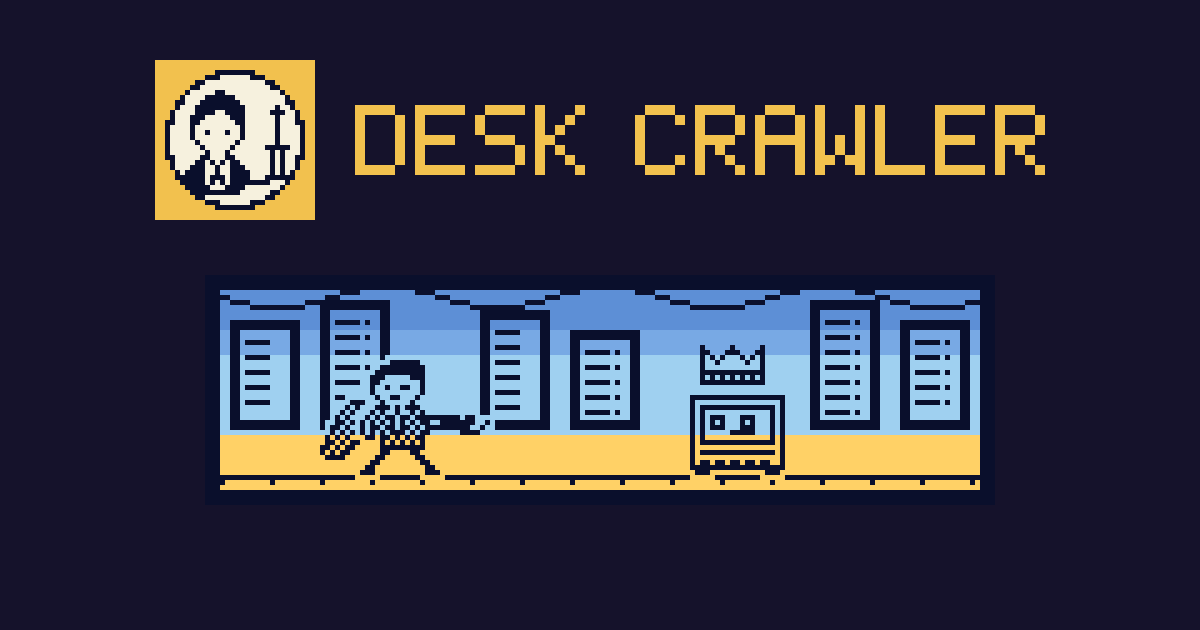
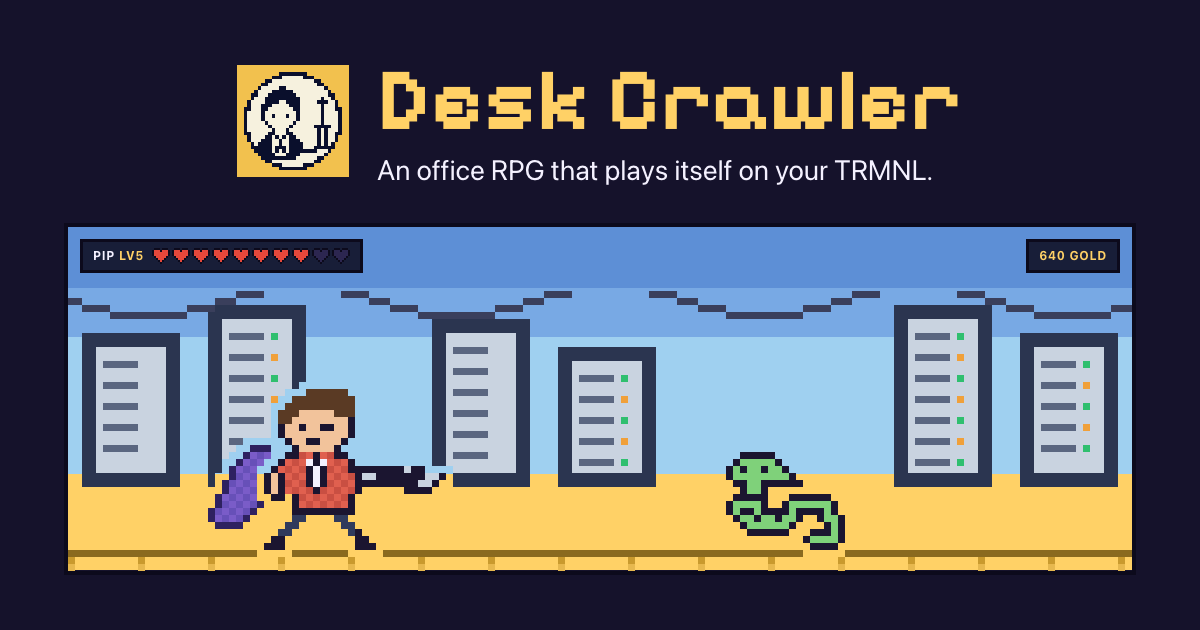
Fall back to UTC for the office sky when TRMNL sends no offset, as the recap does, so the sky and the recap always turn together; the companion keeps daylight until its clock hydrates (D106)

diff --git a/apps/web/src/routeTree.gen.ts b/apps/web/src/routeTree.gen.ts
@@ -22,6 +22,7 @@ import { Route as AppDeskCrawlerRouteImport } from './routes/app/desk-crawler'
 import { Route as DeskCrawlerUnsubscribeRouteImport } from './routes/desk-crawler/unsubscribe'
 import { Route as DeskCrawlerWaitingListRouteImport } from './routes/desk-crawler/waiting-list'
 import { Route as DevDeskCrawlerRouteImport } from './routes/dev/desk-crawler'
+import { Route as DevOgRouteImport } from './routes/dev/og'
 import { Route as GamesDeskCrawlerRouteImport } from './routes/games/desk-crawler'
 import { Route as HelpDeskCrawlerRouteImport } from './routes/help/desk-crawler'
 import { Route as AppDeskCrawlerIndexRouteImport } from './routes/app/desk-crawler/index'
@@ -96,6 +97,11 @@ const DevDeskCrawlerRoute = DevDeskCrawlerRouteImport.update({
   path: '/dev/desk-crawler',
   getParentRoute: () => rootRouteImport,
 } as any)
+const DevOgRoute = DevOgRouteImport.update({
+  id: '/dev/og',
+  path: '/dev/og',
+  getParentRoute: () => rootRouteImport,
+} as any)
 const GamesDeskCrawlerRoute = GamesDeskCrawlerRouteImport.update({
   id: '/games/desk-crawler',
   path: '/games/desk-crawler',
@@ -153,6 +159,7 @@ export interface FileRoutesByFullPath {
   '/desk-crawler/unsubscribe': typeof DeskCrawlerUnsubscribeRoute
   '/desk-crawler/waiting-list': typeof DeskCrawlerWaitingListRoute
   '/dev/desk-crawler': typeof DevDeskCrawlerRoute
+  '/dev/og': typeof DevOgRoute
   '/games/desk-crawler': typeof GamesDeskCrawlerRoute
   '/help/desk-crawler': typeof HelpDeskCrawlerRoute
   '/app/': typeof AppIndexRoute
@@ -174,6 +181,7 @@ export interface FileRoutesByTo {
   '/desk-crawler/unsubscribe': typeof DeskCrawlerUnsubscribeRoute
   '/desk-crawler/waiting-list': typeof DeskCrawlerWaitingListRoute
   '/dev/desk-crawler': typeof DevDeskCrawlerRoute
+  '/dev/og': typeof DevOgRoute
   '/games/desk-crawler': typeof GamesDeskCrawlerRoute
   '/help/desk-crawler': typeof HelpDeskCrawlerRoute
   '/app': typeof AppIndexRoute
@@ -198,6 +206,7 @@ export interface FileRoutesById {
   '/desk-crawler/unsubscribe': typeof DeskCrawlerUnsubscribeRoute
   '/desk-crawler/waiting-list': typeof DeskCrawlerWaitingListRoute
   '/dev/desk-crawler': typeof DevDeskCrawlerRoute
+  '/dev/og': typeof DevOgRoute
   '/games/desk-crawler': typeof GamesDeskCrawlerRoute
   '/help/desk-crawler': typeof HelpDeskCrawlerRoute
   '/app/': typeof AppIndexRoute
@@ -223,6 +232,7 @@ export interface FileRouteTypes {
     | '/desk-crawler/unsubscribe'
     | '/desk-crawler/waiting-list'
     | '/dev/desk-crawler'
+    | '/dev/og'
     | '/games/desk-crawler'
     | '/help/desk-crawler'
     | '/app/'
@@ -244,6 +254,7 @@ export interface FileRouteTypes {
     | '/desk-crawler/unsubscribe'
     | '/desk-crawler/waiting-list'
     | '/dev/desk-crawler'
+    | '/dev/og'
     | '/games/desk-crawler'
     | '/help/desk-crawler'
     | '/app'
@@ -267,6 +278,7 @@ export interface FileRouteTypes {
     | '/desk-crawler/unsubscribe'
     | '/desk-crawler/waiting-list'
     | '/dev/desk-crawler'
+    | '/dev/og'
     | '/games/desk-crawler'
     | '/help/desk-crawler'
     | '/app/'
@@ -290,6 +302,7 @@ export interface RootRouteChildren {
   DeskCrawlerUnsubscribeRoute: typeof DeskCrawlerUnsubscribeRoute
   DeskCrawlerWaitingListRoute: typeof DeskCrawlerWaitingListRoute
   DevDeskCrawlerRoute: typeof DevDeskCrawlerRoute
+  DevOgRoute: typeof DevOgRoute
   GamesDeskCrawlerRoute: typeof GamesDeskCrawlerRoute
   HelpDeskCrawlerRoute: typeof HelpDeskCrawlerRoute
   ConnectTrmnlDeskCrawlerInstallRoute: typeof ConnectTrmnlDeskCrawlerInstallRoute
@@ -387,6 +400,13 @@ declare module '@tanstack/react-router' {
       path: '/dev/desk-crawler'
       fullPath: '/dev/desk-crawler'
       preLoaderRoute: typeof DevDeskCrawlerRouteImport
+      parentRoute: typeof rootRouteImport
+    }
+    '/dev/og': {
+      id: '/dev/og'
+      path: '/dev/og'
+      fullPath: '/dev/og'
+      preLoaderRoute: typeof DevOgRouteImport
       parentRoute: typeof rootRouteImport
     }
     '/games/desk-crawler': {
@@ -490,6 +510,7 @@ const rootRouteChildren: RootRouteChildren = {
   DeskCrawlerUnsubscribeRoute: DeskCrawlerUnsubscribeRoute,
   DeskCrawlerWaitingListRoute: DeskCrawlerWaitingListRoute,
   DevDeskCrawlerRoute: DevDeskCrawlerRoute,
+  DevOgRoute: DevOgRoute,
   GamesDeskCrawlerRoute: GamesDeskCrawlerRoute,
   HelpDeskCrawlerRoute: HelpDeskCrawlerRoute,
   ConnectTrmnlDeskCrawlerInstallRoute: ConnectTrmnlDeskCrawlerInstallRoute,

diff --git a/tools/art/colour.ts b/tools/art/colour.ts
@@ -11,7 +11,6 @@ export const BRAND = {
   night: [0x0a, 0x0f, 0x2c],
   navy: [0x22, 0x1d, 0x44],
   ground: [0x15, 0x12, 0x2b],
-  serverBands: [[0x5d, 0x8f, 0xd6], [0x78, 0xa9, 0xe4], [0x9f, 0xd0, 0xf0], [0xff, 0xd1, 0x66]],
   white: [0xff, 0xff, 0xff],
 } as const
 
@@ -102,17 +101,6 @@ export function colourMark(canvas: Canvas, tile: Rgb = BRAND.gold): Image {
   return image
 }
 
-/** A 1-bit scene with its paper replaced by colour bands (ceiling, upper wall, wall, floor at 18/14/40/28%), as the companion's game screen shows it. */
-export function bandedScene(canvas: Canvas, bands: readonly Rgb[]): Image {
-  const image = new Image(canvas.width, canvas.height)
-  const stops = [0.18, 0.32, 0.72, 1]
-  for (let y = 0; y < canvas.height; y += 1) {
-    const band = bands[stops.findIndex((stop) => y < stop * canvas.height)] ?? bands[bands.length - 1]!
-    for (let x = 0; x < canvas.width; x += 1) image.set(x, y, canvas.ink[y * canvas.width + x] ? BRAND.night : band)
-  }
-  return image
-}
-
 /** A 1-bit canvas as night ink on white, for the device scene. */
 export function inkImage(canvas: Canvas): Image {
   const image = new Image(canvas.width, canvas.height)
@@ -136,35 +124,4 @@ export function markSvg(image: Image): string {
   }
   const paths = [...byColour].map(([colour, runs]) => `<path fill="#${colour}" d="${runs.join('')}"/>`).join('')
   return `<svg xmlns="http://www.w3.org/2000/svg" viewBox="0 0 ${image.width} ${image.height}" shape-rendering="crispEdges">${paths}</svg>\n`
-}
-
-/** A 5x7 pixel alphabet for the wordmarks on the social cards (only the letters the titles use). */
-const LETTERS: Record<string, readonly string[]> = {
-  A: ['.###.', '#...#', '#...#', '#####', '#...#', '#...#', '#...#'],
-  C: ['.###.', '#...#', '#....', '#....', '#....', '#...#', '.###.'],
-  D: ['####.', '#...#', '#...#', '#...#', '#...#', '#...#', '####.'],
-  E: ['#####', '#....', '#....', '####.', '#....', '#....', '#####'],
-  G: ['.###.', '#...#', '#....', '#.###', '#...#', '#...#', '.###.'],
-  K: ['#...#', '#..#.', '#.#..', '##...', '#.#..', '#..#.', '#...#'],
-  L: ['#....', '#....', '#....', '#....', '#....', '#....', '#####'],
-  M: ['#...#', '##.##', '#.#.#', '#.#.#', '#...#', '#...#', '#...#'],
-  N: ['#...#', '##..#', '#.#.#', '#..##', '#...#', '#...#', '#...#'],
-  R: ['####.', '#...#', '#...#', '####.', '#.#..', '#..#.', '#...#'],
-  S: ['.####', '#....', '#....', '.###.', '....#', '....#', '####.'],
-  T: ['#####', '..#..', '..#..', '..#..', '..#..', '..#..', '..#..'],
-  W: ['#...#', '#...#', '#...#', '#.#.#', '#.#.#', '##.##', '#...#'],
-  ' ': ['...', '...', '...', '...', '...', '...', '...'],
-}
-
-/** Width in pixels of `text` set in the pixel alphabet at `scale`, one pixel of tracking per letter. */
-export const pixelTextWidth = (text: string, scale: number) => [...text.toUpperCase()].reduce((sum, ch) => sum + ((LETTERS[ch]?.[0]!.length ?? 3) + 1) * scale, -scale)
-
-/** Draw `text` with its top-left at (left, top). */
-export function pixelText(image: Image, text: string, left: number, top: number, scale: number, colour: Rgb): void {
-  let x = left
-  for (const ch of text.toUpperCase()) {
-    const rows = LETTERS[ch] ?? LETTERS[' ']!
-    rows.forEach((row, y) => [...row].forEach((cell, dx) => { if (cell === '#') image.rect(x + dx * scale, top + y * scale, scale, scale, colour) }))
-    x += (rows[0]!.length + 1) * scale
-  }
 }

diff --git a/tools/art/web.ts b/tools/art/web.ts
@@ -1,12 +1,11 @@
-/** Render the platform's and Desk Crawler's favicons, app icons and social cards into public/. pnpm tsx tools/art/web.ts */
+/** Render the platform's and Desk Crawler's favicons and app icons into public/. pnpm tsx tools/art/web.ts (social cards: tools/art/og.mjs) */
 import { mkdirSync, writeFileSync } from 'node:fs'
 import type { Canvas } from '@trmnl-games/desk-crawler/art/canvas'
-import { composeScene, STAGE_WIDTH } from '@trmnl-games/desk-crawler/art/scene'
-import { BRAND, Image, bandedScene, colourMark, markSvg, pixelText, pixelTextWidth } from './colour'
+import { BRAND, Image, colourMark, markSvg } from './colour'
 import { faviconCanvas, iconCanvas } from './iconArt'
 import { platformFaviconCanvas, platformIconCanvas } from './platformArt'
 
-function writeIconSet(out: string, title: string, iconArt: Canvas, faviconArt: Canvas): void {
+function writeIconSet(out: string, iconArt: Canvas, faviconArt: Canvas): void {
   mkdirSync(out, { recursive: true })
   const icon = colourMark(iconArt)
   const favicon = colourMark(faviconArt)
@@ -49,19 +48,8 @@ function writeIconSet(out: string, title: string, iconArt: Canvas, faviconArt: C
   png('apple-touch-icon.png', touch, 5)
   png('icon-192.png', icon, 6)
   png('icon-512.png', icon, 16)
-
-  // Social card, 1200x630 = 240x126 x 5: the mark and gold pixel wordmark over the game screen, the fight scene in Server Room colours.
-  const card = new Image(240, 126, BRAND.ground)
-  const wordWidth = pixelTextWidth(title, 2)
-  const rowLeft = Math.round((240 - (32 + 8 + wordWidth)) / 2)
-  card.blit(icon, rowLeft, 12)
-  pixelText(card, title, rowLeft + 40, 21, 2, BRAND.gold)
-  const scene = bandedScene(composeScene('server_room', 'fight', { kind: 'monster', id: 'legacy_mainframe', elite: true }), BRAND.serverBands)
-  card.rect((240 - STAGE_WIDTH) / 2 - 3, 55, STAGE_WIDTH + 6, scene.height + 6, BRAND.night)
-  card.blit(scene, (240 - STAGE_WIDTH) / 2, 58)
-  png('og.png', card, 5)
 }
 
 // The platform mark at the site root; Desk Crawler's Warrior under its game path.
-writeIconSet('apps/web/public', 'TRMNL Games', platformIconCanvas(), platformFaviconCanvas())
-writeIconSet('apps/web/public/games/desk-crawler', 'Desk Crawler', iconCanvas(), faviconCanvas())
+writeIconSet('apps/web/public', platformIconCanvas(), platformFaviconCanvas())
+writeIconSet('apps/web/public/games/desk-crawler', iconCanvas(), faviconCanvas())

diff --git a/tests/sim/art.test.ts b/tests/sim/art.test.ts
@@ -4,6 +4,7 @@ import { parseScenePath, renderScenePng } from '@trmnl-games/desk-crawler/art/ro
 import { composeScene, FULL_SCALE, LARGE_SCALE, MEDIUM_SCALE, SCENE_VERSION, SMALL_SCALE, STAGE_HEIGHT, STAGE_WIDTH } from '@trmnl-games/desk-crawler/art/scene'
 import { sceneFor, scenePath } from '@trmnl-games/desk-crawler/art/sceneKey'
 import { sceneTimeAt, sceneUrlAt, sceneUrlsAt } from '@trmnl-games/desk-crawler/art/sceneTime'
+import { recapPeriod } from '@trmnl-games/desk-crawler/payload'
 import { monsterArt } from '@trmnl-games/desk-crawler/art/monsters'
 import { BWRY_PALETTE, bwryInk, BwryInk } from '@trmnl-games/desk-crawler/art/sceneColour'
 import { contentV1 } from '@trmnl-games/desk-crawler/content/v1'
@@ -133,7 +134,20 @@ describe('local scene time', () => {
     expect(sceneTimeAt(at(10), -4.5 * 3600)).toBe('night')
     expect(sceneTimeAt(at(23), 2 * 3600)).toBe('night')
     expect(sceneTimeAt(at(1), -4 * 3600)).toBe('night')
-    for (const offset of [null, NaN, Infinity, 14 * 3600 + 1, 0.5]) expect(sceneTimeAt(at(23), offset)).toBe('day')
+  })
+
+  it('reads UTC without a valid offset, turning with the recap (D106)', () => {
+    const at = (hour: number, minute = 0) => Date.UTC(2026, 9, 5, hour, minute)
+    for (const offset of [null, NaN, Infinity, 14 * 3600 + 1, 0.5]) {
+      expect(sceneTimeAt(at(6, 59), offset)).toBe('night')
+      expect(sceneTimeAt(at(7), offset)).toBe('day')
+      expect(sceneTimeAt(at(19), offset)).toBe('night')
+    }
+    for (const hour of [0, 6, 7, 12, 18, 19, 23]) {
+      const now = at(hour, 30)
+      expect(sceneTimeAt(now, null)).toBe(recapPeriod(now, null).label === 'Night recap' ? 'day' : 'night')
+    }
+    expect(sceneTimeAt(NaN, null)).toBe('day')
   })
 
   it('selects all scales together without mutating the payload or legacy URLs', () => {

diff --git a/apps/web/src/routes/dev/og.tsx b/apps/web/src/routes/dev/og.tsx
@@ -1,0 +1,38 @@
+import { createFileRoute, notFound } from '@tanstack/react-router'
+import { SampleScreen } from '../../lib/sampleScreen'
+
+const CARDS = {
+  platform: { mark: '/favicon.svg', title: 'TRMNL Games', tagline: 'Games for your TRMNL e-ink display. Starting with Desk Crawler.' },
+  'desk-crawler': { mark: '/games/desk-crawler/icon-192.png', title: 'Desk Crawler', tagline: 'An office RPG that plays itself on your TRMNL.' },
+} as const
+type Card = keyof typeof CARDS
+
+/**
+ * Dev-only social cards (1200x630). `node tools/art/og.mjs` screenshots `#og-card` into
+ * public/og.png and public/games/desk-crawler/og.png, so the cards use the site's own fonts,
+ * painted scene and HUD rather than a separate drawing.
+ */
+export const Route = createFileRoute('/dev/og')({
+  validateSearch: (search: Record<string, unknown>): { card: Card } => ({ card: search.card === 'desk-crawler' ? 'desk-crawler' : 'platform' }),
+  beforeLoad: () => {
+    if (!import.meta.env.DEV) throw notFound()
+  },
+  component: OgCard,
+})
+
+function OgCard() {
+  const card = CARDS[Route.useSearch().card]
+  return (
+    <div id="og-card" className="flex h-[630px] w-[1200px] flex-col items-center justify-center gap-9 bg-ground">
+      <div className="flex items-center gap-7">
+        <img src={card.mark} alt="" width={112} height={112} className="size-28 [image-rendering:pixelated]" />
+        <div className="flex flex-col gap-2">
+          <p className="font-display text-[5.5rem] leading-none font-bold text-gold-ink">{card.title}</p>
+          <p className="text-[1.75rem] leading-tight text-ink">{card.tagline}</p>
+        </div>
+      </div>
+      {/* 152px stage at exactly 7x plus the 4px frame, so every art pixel stays square. */}
+      <SampleScreen className="w-[1072px]" />
+    </div>
+  )
+}

diff --git a/apps/web/src/lib/seo.ts b/apps/web/src/lib/seo.ts
@@ -2,13 +2,15 @@ import { PLATFORM_ORIGIN, PLATFORM_NAME } from '@trmnl-games/platform'
 
 export const SITE_ORIGIN = PLATFORM_ORIGIN
 export const SITE_NAME = PLATFORM_NAME
+/** Desk Crawler's own social card, for its public pages. */
+export const DESK_CRAWLER_OG = { path: '/games/desk-crawler/og.png', alt: 'Desk Crawler: Pip the office warrior squares up to a Cable Serpent in the Server Room' }
 export const SITE_DESCRIPTION = 'Games for your TRMNL e-ink display. Start with Desk Crawler, an office RPG that plays itself on your desk.'
 
 /**
  * Per-route head tags. Child meta with the same name/property replaces the
  * root defaults; private and handoff pages pass `index: false`.
  */
-export function seo({ title, description = SITE_DESCRIPTION, path, index = true }: { title?: string; description?: string; path?: string; index?: boolean }) {
+export function seo({ title, description = SITE_DESCRIPTION, path, index = true, image }: { title?: string; description?: string; path?: string; index?: boolean; image?: { path: string; alt: string } }) {
   const fullTitle = title ? `${title} · ${SITE_NAME}` : `${SITE_NAME}: games for your e-ink display`
   return {
     meta: [
@@ -17,6 +19,7 @@ export function seo({ title, description = SITE_DESCRIPTION, path, index = true 
       { property: 'og:title', content: fullTitle },
       { property: 'og:description', content: description },
       ...(path ? [{ property: 'og:url', content: `${SITE_ORIGIN}${path}` }] : []),
+      ...(image ? [{ property: 'og:image', content: `${SITE_ORIGIN}${image.path}` }, { property: 'og:image:alt', content: image.alt }] : []),
       ...(index ? [] : [{ name: 'robots', content: 'noindex, nofollow' }]),
     ],
     links: path && index ? [{ rel: 'canonical', href: `${SITE_ORIGIN}${path}` }] : [],

diff --git a/packages/desk-crawler/src/art/sceneTime.ts b/packages/desk-crawler/src/art/sceneTime.ts
@@ -4,10 +4,14 @@ import { DAY_START_HOUR, NIGHT_START_HOUR } from '../lib/activityRecap'
 export const SCENE_VERSION = 4
 export type SceneTime = 'day' | 'night'
 
-/** Cosmetic clock only, on the recap's day/night hours (D84). Offset is seconds east of UTC; unknown local time uses daylight. */
+/**
+ * Cosmetic clock only, on the recap's day/night hours (D84). Offset is seconds east of UTC; a missing or invalid offset
+ * reads UTC, as `recapPeriod` does, so the sky and the recap still turn together (D106).
+ */
 export function sceneTimeAt(now: number, utcOffset: number | null): SceneTime {
-  if (utcOffset === null || !Number.isFinite(now) || !Number.isInteger(utcOffset) || Math.abs(utcOffset) > 14 * 3600) return 'day'
-  const hour = new Date(now + utcOffset * 1000).getUTCHours()
+  if (!Number.isFinite(now)) return 'day'
+  const offset = utcOffset !== null && Number.isInteger(utcOffset) && Math.abs(utcOffset) <= 14 * 3600 ? utcOffset : 0
+  const hour = new Date(now + offset * 1000).getUTCHours()
   return hour >= DAY_START_HOUR && hour < NIGHT_START_HOUR ? 'day' : 'night'
 }
 

diff --git a/apps/web/src/routes/games/desk-crawler.tsx b/apps/web/src/routes/games/desk-crawler.tsx
@@ -1,11 +1,11 @@
 import { Link, createFileRoute } from '@tanstack/react-router'
 import { RELEASE_STATUS, SiteLinks } from '../../lib/prose'
 import { BUTTON_SECONDARY, LINK_BUTTON } from '../../lib/ui'
-import { seo } from '../../lib/seo'
+import { DESK_CRAWLER_OG, seo } from '../../lib/seo'
 import { SampleScreen } from '../../lib/deskCrawlerPitch'
 import { WaitlistForm } from '../../lib/waitlist'
 
-export const Route = createFileRoute('/games/desk-crawler')({ head: () => seo({ title: 'Desk Crawler', path: '/games/desk-crawler', description: 'An office RPG that plays itself on your TRMNL e-ink display.' }), component: Landing })
+export const Route = createFileRoute('/games/desk-crawler')({ head: () => seo({ title: 'Desk Crawler', path: '/games/desk-crawler', description: 'An office RPG that plays itself on your TRMNL e-ink display.', image: DESK_CRAWLER_OG }), component: Landing })
 
 /** Public landing. The screen below is a static, labelled sample; it never creates a hero. */
 function Landing() {

diff --git a/apps/web/src/routes/desk-crawler/waiting-list.tsx b/apps/web/src/routes/desk-crawler/waiting-list.tsx
@@ -1,11 +1,11 @@
 import { Link, createFileRoute } from '@tanstack/react-router'
 import { SiteLinks } from '../../lib/prose'
-import { seo } from '../../lib/seo'
+import { DESK_CRAWLER_OG, seo } from '../../lib/seo'
 import { SampleScreen } from '../../lib/deskCrawlerPitch'
 import { WaitlistForm } from '../../lib/waitlist'
 
 export const Route = createFileRoute('/desk-crawler/waiting-list')({
-  head: () => seo({ title: 'Desk Crawler waiting list', path: '/desk-crawler/waiting-list', description: 'Get one email when Desk Crawler, an office RPG for your TRMNL e-ink display, is in the TRMNL marketplace.' }),
+  head: () => seo({ title: 'Desk Crawler waiting list', path: '/desk-crawler/waiting-list', description: 'Get one email when Desk Crawler, an office RPG for your TRMNL e-ink display, is in the TRMNL marketplace.', image: DESK_CRAWLER_OG }),
   component: Notify,
 })
 

diff --git a/apps/web/src/routes/__root.tsx b/apps/web/src/routes/__root.tsx
@@ -36,7 +36,7 @@ export const Route = createRootRouteWithContext<{
       { property: 'og:image', content: `${SITE_ORIGIN}/og.png` },
       { property: 'og:image:width', content: '1200' },
       { property: 'og:image:height', content: '630' },
-      { property: 'og:image:alt', content: 'Desk Crawler: a pixel-art office warrior faces an elite Legacy Mainframe in the Server Room' },
+      { property: 'og:image:alt', content: 'TRMNL Games: Pip the office warrior squares up to a Cable Serpent in the Server Room' },
       { name: 'twitter:card', content: 'summary_large_image' },
     ],
     links: [

diff --git a/apps/web/src/lib/localClock.ts b/apps/web/src/lib/localClock.ts
@@ -19,5 +19,5 @@ export const browserUtcOffset = (now: number | null) => now === null ? null : -n
 
 /** A scene URL with the sky for the viewer's local time; daylight until the clock hydrates. */
 export function localSceneUrl(url: string, now: number | null): string {
-  return sceneUrlAt(url, sceneTimeAt(now ?? 0, browserUtcOffset(now)))
+  return sceneUrlAt(url, now === null ? 'day' : sceneTimeAt(now, browserUtcOffset(now)))
 }

diff --git a/docs/decisions.md b/docs/decisions.md
@@ -84,6 +84,7 @@ Status language: **confirmed** means Barry chose it; **proposed** means a docume
 | D103 | Stance switches between ticks share one log line, and the TRMNL HUD shows the stance under a gauge mark | Barry noticed on 2026-10-08 that flicking between stances filled the adventure log, though only the stance the next tick reads matters. `heroes.setStance` now rewrites the open `set_stance` line ("Stance set to [[Bold]] from balanced.", `stanceFrom` in its detail) while nothing else has been logged since, skipping achievement lines, and deletes it when the hero is back on the stance it started from; `stanceChanges` follows the line, so toggling never counts more than one change. The intent now awards achievements itself: the tick compared against a hero that already carried the bumped counter, so the stance family could only unlock on a full pass. Because the stance outlasts its line, the payload carries `stance` and `stance_name` and template v44 shows the name after the bag count in the hero's counter rows (the full header and the narrow columns' counters), under one of three new 8×8 gauge marks whose needle sits low, centred or high; the status line was tried first but the OG's clamp replaces it with plain text, which would drop a mark. In the X half's narrow details column the counts go by their marks alone so the stance shares their row, and at Barry's suggestion the hero and HUD blocks close up (one small gap instead of a medium one), so the board there shows up to four rows (two with the recap ribbon, up from one). The preview scenarios now use the live catalog, and the long-text scenario carries the longest stance name in the longest area |
 | D104 | The X side view's code moves to the header corner and its recap to a bottom ribbon, as in the X quarter | Barry asked on 2026-10-08 for the X side (landscape) to put the QR in the top-right so the pixel art spans further, to set the Night recap at the very bottom like the other screens, and to fit more logs; then for the weapon and armor words to become icons if space ran short, and for similar changes on the X quarter. Template v45: the side's code (the bag code, or the urgent code with its label) closes the stacked header's row, where the name clamps past 12 characters; the gear runs the full width under that row behind the sword and shield marks instead of the slot words, so both names share one line; the 3x scene shows uncovered, since 3x is already the largest whole scale the column holds; the recap leaves the top of the ledger for the one-line ribbon at the foot; the board shows four rows instead of five. Together the side fits four stories of the overnight fixture instead of three. The X quarter landscape already had its code in the corner, so it only moves its recap to the ribbon. The portrait side and quarter, narrower, keep their arrangements. Putting each story's chips on its line was tried and dropped: the column is too narrow for the stat columns. Barry then asked for the X half (top/bottom) to fit a third board row: template v46 sets its details column at small gaps instead of medium, which frees the few pixels the third row lacked above the recap ribbon (four rows without a recap) |
 | D105 | A Desk Crawler launch list collects emails during marketplace review; an account stays optional | Barry asked on 2026-10-08, after a Discord screenshot drew interest, for a waiting list he can email once plugin 564 is approved, with an optional account sign-up offered after joining. Joining takes an email only (no account), on the shareable `/desk-crawler/waiting-list`, the signed-out QR pitch, the game page and (added the same day) the home page, with a GitHub link in the site footer; success offers "Create account (optional)", which says the TRMNL install still comes at launch. Signed-in players without a hero join from the companion's Start card with their verified Clerk email (`waitlist.joinWithAccount`), and that also attaches an account to an earlier email-only entry, automatically when the visitor joined in the same browser session. The form answers the same for new and repeat addresses, drops honeypot submissions and caps joins at 300 per 10 minutes overall. Single opt-in: one launch email, sent only when Barry runs `waitlist:sendLaunch` with the install URL, through Resend's batch endpoint from `hello@trmnlgames.com`; each accepted address is deleted, so the list empties itself. The email carries a signed unsubscribe link (a click-to-confirm page, so link scanners cannot remove anyone) and `List-Unsubscribe`. Account deletion removes an attached entry; game-progress deletion does not. The privacy page lists the new purpose and retention |
+| D106 | Without a TRMNL offset the office sky reads UTC, like the recap | Barry asked on 2026-10-08 whether the recap and the sky stay in sync, then asked for them to stay in sync in every case. With a valid `utc_offset` they already turned together (one pair of hour constants, the same request time and offset). Without one the recap fell back to UTC (D75) while the sky stayed on daylight (D50), so the label kept turning at 07:00/19:00 UTC under a fixed day sky. `sceneTimeAt` now reads UTC for a missing or invalid offset too; UTC was kept over the daylight default because the recap's window decides which events it counts, and a sky change is only cosmetic. The companion still shows daylight until its clock hydrates. Images and URLs unchanged, no scene version bump. Supersedes D50's daylight fallback |
 | D20 | Seven-day recent board on TRMNL; both recent views and secondary lifetime board in companion | Confirmed; current-level bands 1–3, 4–7, 8–11, then four-level bands. Group changes carry recent XP and clear delta; new/zero-score heroes included. No per-installation period setting in MVP |
 | D21 | Gold is a reserve until the later merchant | Confirmed; secondary prominence, no MVP shop or promise of future purchasing power. Price later offers against retained balances; never reset gold to fix inflation |
 | D22 | Two deletion levels: **Delete Desk Crawler progress** (game data and connections; shared account and sign-in stay) and **Delete TRMNL Games account** (every game's data, connections and the shared Clerk identity; also triggered by Clerk `user.deleted`); permit replay-safe fresh start | Revised 2026-10-04 for the platform migration (D40), replacing deletion of a dedicated Desk Crawler identity. Both levels: deny authority/mask names immediately, resumable purge, minimal disclosed credential-revocation retention while tokens remain usable. V09 must prove returning-player authorization; old code/token replay alone denied |
@@ -352,3 +353,5 @@ D24–D28 resolve final pacing/content/recap/incident/recovery-policy recommenda
 2026-10-08, D103: stance toggling between ticks collapses to one log line (none for a round trip) and counts once; the setStance intent awards the stance achievements it previously missed; the TRMNL hero counters show the stance under a gauge mark (template v44).
 
 2026-10-08, D104: the X side's code joins its header and its gear moves behind marks, the scene shows uncovered, the recap is a bottom ribbon (also on the X quarter) and the side board drops to four rows, fitting one more story (template v45); the X half's details column closes to small gaps so its board keeps a third row over the recap ribbon (template v46).
+
+2026-10-08, D106: the office sky falls back to UTC like the recap when TRMNL sends no valid offset, so the two always turn at the same moment; a test pins the sky to the recap label across the day with no offset.
